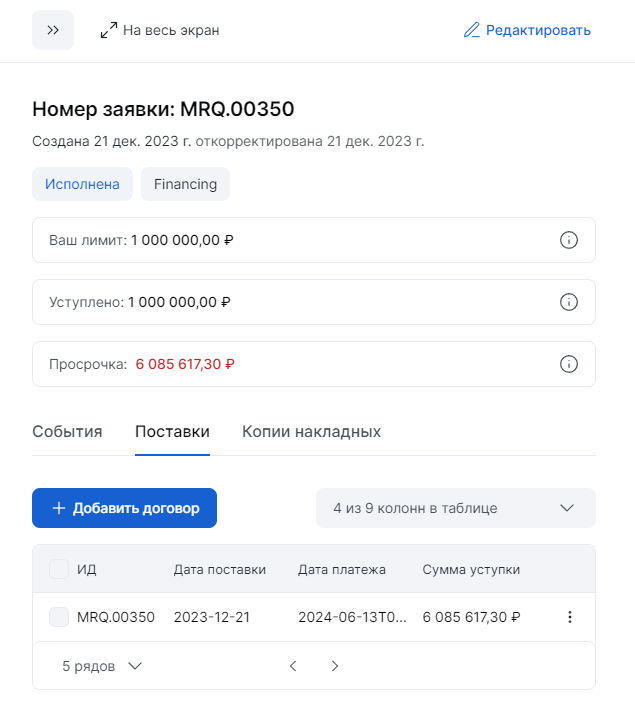
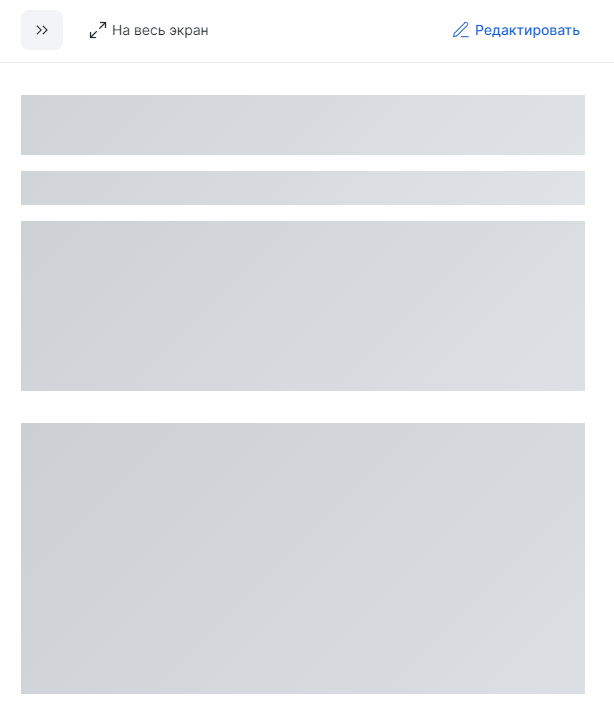
add: skeleton for req.bro.dr.comp

diff --git a/src/app/client/modules/requests/modules/request-browser-drawer/request-browser-drawer.component.html b/src/app/client/modules/requests/modules/request-browser-drawer/request-browser-drawer.component.html
@@ -5,142 +5,179 @@
 		(onClose)="dialogRef.close()"
 		drawer-header
 	></mib-drawer-header>
-	<h4>Номер заявки: {{ requestData?.Number }}</h4>
-	<mib-spacing type="xs2"></mib-spacing>
-	<div class="flex gap-4">
-		<span class="text text_m c-bti-secondary"
-			>Создана {{ requestData?.Date | date }}</span
-		>
-		<span class="text text_m c-bti-quaternary"
-			>откорректирована {{ requestData?.Date | date }}</span
-		>
-	</div>
-	<mib-spacing type="xs"></mib-spacing>
-	<div class="flex gap-8">
-		<mib-tag size="m">{{ requestData?.Status }}</mib-tag>
-		<mib-tag type="filled-secondary" class="text_regular" size="m">{{
-			requestData?.Type
-		}}</mib-tag>
-	</div>
-	<mib-spacing type="xs"></mib-spacing>
-	<mib-cash-panel
-		extracted="true"
-		panelTitle="Ваш лимит:"
-		panelData="1000000"
-	></mib-cash-panel>
-	<mib-spacing type="xs"></mib-spacing>
-	<mib-cash-panel
-		extracted="true"
-		panelTitle="Уступлено:"
-		panelData="1000000"
-	></mib-cash-panel>
-	<mib-spacing type="xs"></mib-spacing>
-	<mib-cash-panel extracted="true" panelTitle="Просрочка:">
-		<ng-container alert
-			>{{ requestData?.Summ | currency : 'RUB' : 'symbol-narrow' }}
-		</ng-container>
-	</mib-cash-panel>
-	<mib-spacing type="m"></mib-spacing>
-	<mib-tab-group>
-		<mib-navbar>
-			<mib-navbar-point value="1">События</mib-navbar-point>
-			<mib-navbar-point value="2">Поставки</mib-navbar-point>
-			<mib-navbar-point value="3">Копии накладных</mib-navbar-point>
-		</mib-navbar>
-		<div class="">
-			<mib-tab-item value="1">
-				<mib-spacing type="m"></mib-spacing>
-				<h2>События</h2>
-				<mib-spacing type="m"></mib-spacing>
-			</mib-tab-item>
-			<mib-tab-item value="2">
-				<mib-spacing type="m"></mib-spacing>
-				<div class="flex flex_justify-between">
-					<mib-button type="filled-primary">
-						<mib-ref-icon
-							btn-left-icon
-							class="stroke"
-							name="fi_plus"
-						></mib-ref-icon>
-						Добавить договор
-					</mib-button>
-					<mib-select
-						class="supply-select-width"
-						placeholder="4 из 9 колонн в таблице"
-					>
-						<mib-dropdown-point
-							[value]="true"
-							text="6 из 9 колонн в таблице"
-						></mib-dropdown-point>
-						<mib-dropdown-point
-							[value]="false"
-							text="9 из 9 колонн в таблице"
-						></mib-dropdown-point>
-					</mib-select>
-				</div>
-				<mib-spacing type="xs"></mib-spacing>
-				<mib-table>
-					<mib-table-head>
-						<mib-table-head-cell [showCheckbox]="true">ИД </mib-table-head-cell>
-						<mib-table-head-cell>Дата поставки</mib-table-head-cell>
-						<mib-table-head-cell>Дата платежа</mib-table-head-cell>
-						<mib-table-head-cell>Сумма уступки</mib-table-head-cell>
-					</mib-table-head>
-					<mib-table-row *ngFor="let shipment of requestData?.Shipments">
-						<mib-table-cell type="main">
-							<ng-container table-cell-title>{{
-								requestData?.Number
-							}}</ng-container>
-						</mib-table-cell>
-						<mib-table-cell>
-							<ng-container table-cell-title>{{
-								shipment?.AccountDate
-							}}</ng-container>
-						</mib-table-cell>
-						<mib-table-cell>
-							<ng-container table-cell-title>{{
-								shipment?.DatePayment
-							}}</ng-container>
-						</mib-table-cell>
-						<mib-table-cell>
-							<ng-container table-cell-title>{{
-								shipment?.Summ | currency : 'RUB' : 'symbol-narrow'
-							}}</ng-container>
-						</mib-table-cell>
-						<mib-button table-row-button size="s" type="ghost-secondary">
-							<mib-ref-icon
-								class="stroke"
-								btn-icon
-								name="fi_more-vertical"
-							></mib-ref-icon>
-						</mib-button>
-					</mib-table-row>
-					<mib-table-footer>
-						<div class="flex flex_align-center flex_grow">
-							<mib-select type="floating" placeholder="5 рядов">
-								<mib-dropdown-point
-									[value]="true"
-									text="10 рядов"
-								></mib-dropdown-point>
-								<mib-dropdown-point
-									[value]="false"
-									text="20 рядов"
-								></mib-dropdown-point>
-							</mib-select>
-						</div>
-						<mib-paginator
-							[pagesToShow]="PAGINATOR_PAGE_TO_SHOW"
-							[itemsPerPage]="PAGINATOR_ITEMS_PER_PAGE"
-						></mib-paginator>
-						<div class="flex flex_align-center flex_grow"></div>
-					</mib-table-footer>
-				</mib-table>
-			</mib-tab-item>
-			<mib-tab-item value="3">
-				<mib-spacing type="m"></mib-spacing>
-				<h2>Копии накладных</h2>
-				<mib-spacing type="m"></mib-spacing>
-			</mib-tab-item>
+	<ng-container *ngIf="loading$ | async; else title">
+		<mib-skeleton [styles]="skeletonTitle" *ngFor="let i of [1]"></mib-skeleton>
+	</ng-container>
+	<ng-template #title>
+		<h4>Номер заявки: {{ requestData?.Number }}</h4>
+		<mib-spacing type="xs2"></mib-spacing>
+		<div class="flex gap-4">
+			<span class="text text_m c-bti-secondary"
+				>Создана {{ requestData?.Date | date }}</span
+			>
+			<span class="text text_m c-bti-quaternary"
+				>откорректирована {{ requestData?.Date | date }}</span
+			>
 		</div>
-	</mib-tab-group>
+	</ng-template>
+	<mib-spacing type="xs"></mib-spacing>
+	<ng-container *ngIf="loading$ | async; else tags">
+		<mib-skeleton [styles]="skeletonTags" *ngFor="let i of [1]"></mib-skeleton>
+	</ng-container>
+	<ng-template #tags>
+		<div class="flex gap-8">
+			<mib-tag size="m">{{ requestData?.Status }}</mib-tag>
+			<mib-tag type="filled-secondary" class="text_regular" size="m">{{
+				requestData?.Type
+			}}</mib-tag>
+		</div>
+	</ng-template>
+	<mib-spacing type="xs"></mib-spacing>
+	<ng-container *ngIf="loading$ | async; else cashPanel">
+		<mib-skeleton
+			[styles]="skeletonCashPanel"
+			*ngFor="let i of [1]"
+		></mib-skeleton>
+	</ng-container>
+	<ng-template #cashPanel>
+		<mib-cash-panel
+			extracted="true"
+			panelTitle="Ваш лимит:"
+			panelData="1000000"
+		></mib-cash-panel>
+		<mib-spacing type="xs"></mib-spacing>
+		<mib-cash-panel
+			extracted="true"
+			panelTitle="Уступлено:"
+			panelData="1000000"
+		></mib-cash-panel>
+		<mib-spacing type="xs"></mib-spacing>
+		<mib-cash-panel extracted="true" panelTitle="Просрочка:">
+			<ng-container alert
+				>{{ requestData?.Summ | currency : 'RUB' : 'symbol-narrow' }}
+			</ng-container>
+		</mib-cash-panel>
+	</ng-template>
+	<mib-spacing type="m"></mib-spacing>
+	<ng-container *ngIf="loading$ | async; else tabGroup">
+		<mib-skeleton
+			[styles]="skeletonTabGroup"
+			*ngFor="let i of [1]"
+		></mib-skeleton>
+	</ng-container>
+	<ng-template #tabGroup>
+		<mib-tab-group>
+			<mib-navbar>
+				<!-- <mib-navbar-point value="1">События</mib-navbar-point> -->
+				<mib-navbar-point value="2">Поставки</mib-navbar-point>
+				<mib-navbar-point value="3">Копии накладных</mib-navbar-point>
+			</mib-navbar>
+			<div>
+				<!-- <mib-tab-item value="1">
+					<mib-spacing type="m"></mib-spacing>
+					<h2>События</h2>
+					<mib-spacing type="m"></mib-spacing>
+				</mib-tab-item> -->
+				<mib-tab-item value="2">
+					<mib-spacing type="m"></mib-spacing>
+					<div class="flex flex_justify-between">
+						<mib-button type="filled-primary">
+							<mib-ref-icon
+								btn-left-icon
+								class="stroke"
+								name="fi_plus"
+							></mib-ref-icon>
+							Добавить договор
+						</mib-button>
+						<mib-select
+							class="supply-select-width"
+							placeholder="4 из 9 колонн в таблице"
+						>
+							<mib-dropdown-point
+								[value]="true"
+								text="6 из 9 колонн в таблице"
+							></mib-dropdown-point>
+							<mib-dropdown-point
+								[value]="false"
+								text="9 из 9 колонн в таблице"
+							></mib-dropdown-point>
+						</mib-select>
+					</div>
+					<mib-spacing type="xs"></mib-spacing>
+					<mib-table>
+						<mib-table-head>
+							<mib-table-head-cell [showCheckbox]="true"
+								>ИД
+							</mib-table-head-cell>
+							<mib-table-head-cell>Дата поставки</mib-table-head-cell>
+							<mib-table-head-cell>Дата платежа</mib-table-head-cell>
+							<mib-table-head-cell>Сумма уступки</mib-table-head-cell>
+						</mib-table-head>
+						<ng-container *ngIf="loading$ | async; else table">
+							<mib-skeleton
+								[styles]="last ? skeletonWithoutUnderline : skeleton"
+								*ngFor="let i of [1]; let last = last"
+							></mib-skeleton>
+						</ng-container>
+						<ng-template #table>
+							<mib-table-row *ngFor="let shipment of requestData?.Shipments">
+								<mib-table-cell type="main">
+									<ng-container table-cell-title>{{
+										requestData?.Number
+									}}</ng-container>
+								</mib-table-cell>
+								<mib-table-cell>
+									<ng-container table-cell-title>{{
+										shipment?.AccountDate
+									}}</ng-container>
+								</mib-table-cell>
+								<mib-table-cell>
+									<ng-container table-cell-title>{{
+										shipment?.DatePayment
+									}}</ng-container>
+								</mib-table-cell>
+								<mib-table-cell>
+									<ng-container table-cell-title>{{
+										shipment?.Summ | currency : 'RUB' : 'symbol-narrow'
+									}}</ng-container>
+								</mib-table-cell>
+								<mib-button table-row-button size="s" type="ghost-secondary">
+									<mib-ref-icon
+										class="stroke"
+										btn-icon
+										name="fi_more-vertical"
+									></mib-ref-icon>
+								</mib-button>
+							</mib-table-row>
+						</ng-template>
+						<mib-table-footer [underlined]="!(loading$ | async)">
+							<div class="flex flex_align-center flex_grow">
+								<mib-select type="floating" placeholder="5 рядов">
+									<mib-dropdown-point
+										[value]="true"
+										text="10 рядов"
+									></mib-dropdown-point>
+									<mib-dropdown-point
+										[value]="false"
+										text="20 рядов"
+									></mib-dropdown-point>
+								</mib-select>
+							</div>
+							<mib-paginator
+								[totalCount]="requestData?.Shipments.length"
+								[pagesToShow]="PAGINATOR_PAGE_TO_SHOW"
+								[itemsPerPage]="PAGINATOR_ITEMS_PER_PAGE"
+							></mib-paginator>
+							<div class="flex flex_align-center flex_grow"></div>
+						</mib-table-footer>
+					</mib-table>
+				</mib-tab-item>
+				<mib-tab-item value="3">
+					<mib-spacing type="m"></mib-spacing>
+					<h2>Копии накладных</h2>
+					<mib-spacing type="m"></mib-spacing>
+				</mib-tab-item>
+			</div>
+		</mib-tab-group>
+	</ng-template>
 </mib-drawer>

diff --git a/src/app/client/modules/requests/modules/request-browser-drawer/request-browser-drawer.component.ts b/src/app/client/modules/requests/modules/request-browser-drawer/request-browser-drawer.component.ts
@@ -5,6 +5,8 @@ import {DrawerData} from 'src/app/shared/ui-kit/drawer/interfaces/drawer.interfa
 import {RequestBrowserDrawer} from './interfaces/request-browser.drawer'
 import {RequestReq} from '../../interfaces/request.interface'
 import {RequestsService} from '../../services/requests.service'
+import {BehaviorSubject} from 'rxjs'
+import {Properties} from 'csstype'
 
 @Component({
 	selector: 'mib-request-browser-drawer',
@@ -12,6 +14,38 @@ import {RequestsService} from '../../services/requests.service'
 	styleUrls: ['./request-browser-drawer.component.scss']
 })
 export class RequestBrowserDrawerComponent implements OnInit {
+	public loading$ = new BehaviorSubject<boolean>(false)
+
+	public skeletonWithoutUnderline: Properties = {
+		height: '48px',
+		width: '100%'
+	}
+
+	public skeletonTitle: Properties = {
+		height: '60px',
+		width: '100%'
+	}
+
+	public skeletonTags: Properties = {
+		height: '34px',
+		width: '100%'
+	}
+
+	public skeletonCashPanel: Properties = {
+		height: '170px',
+		width: '100%'
+	}
+
+	public skeletonTabGroup: Properties = {
+		height: '271px',
+		width: '100%'
+	}
+
+	public skeleton: Properties = {
+		...this.skeletonWithoutUnderline,
+		borderBottom: '1px solid var(--wgr-tertiary)'
+	}
+
 	public PAGINATOR_ITEMS_PER_PAGE = 5
 	public PAGINATOR_PAGE_TO_SHOW = 5
 	public currentPage: number = 1
@@ -19,7 +53,6 @@ export class RequestBrowserDrawerComponent implements OnInit {
 	public currentRequestId: number
 	public requestData: RequestReq
 
-	datas = 1000000
 	constructor(
 		@Inject(MAT_DIALOG_DATA) public data: DrawerData<RequestBrowserDrawer>,
 		private fb: FormBuilder,
@@ -28,11 +61,18 @@ export class RequestBrowserDrawerComponent implements OnInit {
 	) {}
 
 	ngOnInit(): void {
+		this.getCurrentRequest()
+	}
+
+	getCurrentRequest() {
+		this.loading$.next(true)
 		this.currentRequestId = this.data?.data?.requestId
 		this.requestsService.getRequest(this.currentRequestId).subscribe({
 			next: request => {
 				this.requestData = request
-				console.log('requestData :>> ', this.requestData)
+			},
+			complete: () => {
+				this.loading$.next(false)
 			}
 		})
 	}
